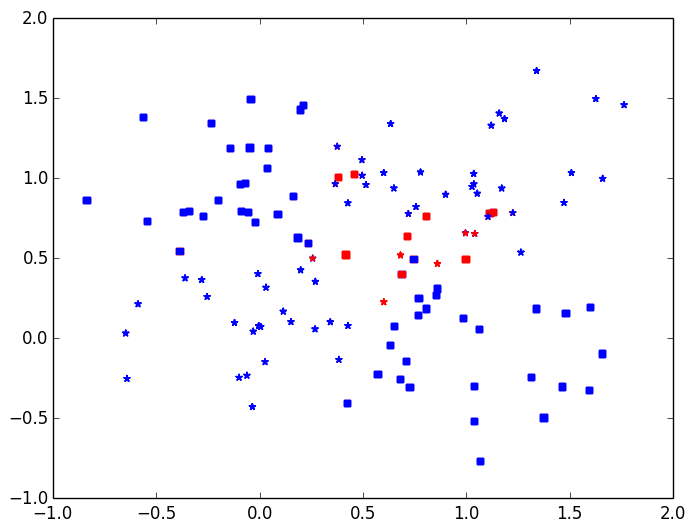
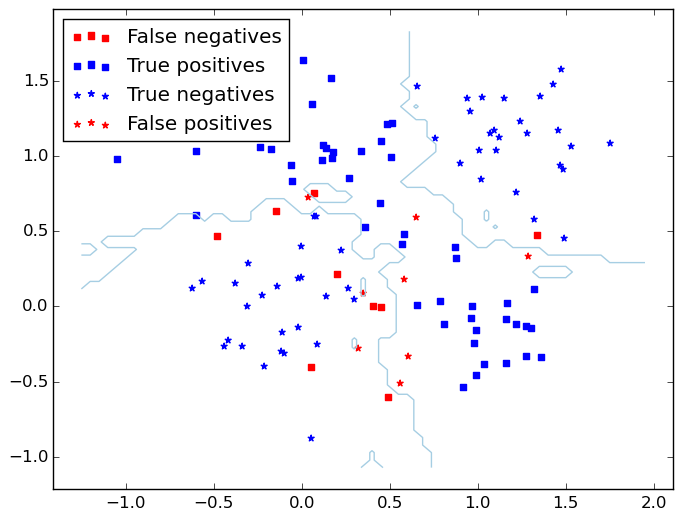
Contour plots and labels for 6.1!

diff --git a/E6/6.1-2.py b/E6/6.1-2.py
@@ -21,10 +21,21 @@ data = createDataAsXYL(60)
 #print data
 
 # ------- 6.1 -------
+def find_k_NearestNeighborsIndices(coordinates, k):
+   dist = np.linalg.norm(np.tile(coordinates, (data.shape[0], 1)) - data[:,:-1], axis=1)
+   return dist.argsort()[1:k+1]
+
 def findNearestNeighborIndiciesToScipy(data, pointindex, numberofneighbors):
    t = tree(data[:,:-1])
    return t.query(data[:,:-1][pointindex], numberofneighbors+1)[1][1:]
 
+h = .05  # step size in the mesh
+# create a mesh to plot in
+x_min, x_max = data[:, 0].min() - 0.2, data[:, 0].max() + 0.2
+y_min, y_max = data[:, 1].min() - 0.2, data[:, 1].max() + 0.2
+xx, yy = np.meshgrid(np.arange(x_min, x_max, h),
+                     np.arange(y_min, y_max, h))
+allpoints = np.c_[xx.ravel(), yy.ravel()]
 
 for k in [1, 3, 5]:
    classifiedasones = [None] * len(data)
@@ -42,13 +53,19 @@ for k in [1, 3, 5]:
    zeros = data[np.asarray(classifiedasones)==False]
    #print "ones:\n"+str(ones)
    #print "zeros:\n"+str(zeros)
+   #Show the contours of the classifications
+   contours = np.zeros(allpoints.shape[0])
+   for i in range(allpoints.shape[0]):
+      contours[i] = np.sign(np.mean(data[find_k_NearestNeighborsIndices(allpoints[i], k)][:,-1]))
 
-   mplt.scatter(getDataWithLabel(zeros,  1).T[0], getDataWithLabel(zeros,  1).T[1], color='red',  marker='s')        #generated as  1, marked as -1
-   mplt.scatter(getDataWithLabel(ones,   1).T[0], getDataWithLabel(ones,   1).T[1], color='blue', marker='s')        #generated as  1, marked as  1
-   mplt.scatter(getDataWithLabel(zeros, -1).T[0], getDataWithLabel(zeros, -1).T[1], color='blue', marker=r'$\star$') #generated as -1, marked as -1
-   mplt.scatter(getDataWithLabel(ones,  -1).T[0], getDataWithLabel(ones,  -1).T[1], color='red',  marker=r'$\star$') #generated as -1, marked as  1
+   mplt.figure()
+   mplt.scatter(getDataWithLabel(zeros,  1).T[0], getDataWithLabel(zeros,  1).T[1], color='red',  marker='s', label='False negatives')        #generated as  1, marked as -1
+   mplt.scatter(getDataWithLabel(ones,   1).T[0], getDataWithLabel(ones,   1).T[1], color='blue', marker='s', label='True positives')        #generated as  1, marked as  1
+   mplt.scatter(getDataWithLabel(zeros, -1).T[0], getDataWithLabel(zeros, -1).T[1], color='blue', marker=r'$\star$', label='True negatives') #generated as -1, marked as -1
+   mplt.scatter(getDataWithLabel(ones,  -1).T[0], getDataWithLabel(ones,  -1).T[1], color='red',  marker=r'$\star$', label='False positives') #generated as -1, marked as  1
+   mplt.contour(xx, yy, contours.reshape(xx.shape), cmap=mplt.cm.Paired, levels=[0.5]);
+   mplt.legend(loc=2)
    mplt.savefig('6.1b_k='+str(k)+'.png', bbox_inches='tight')
-
 
 
 # ------- 6.2 -------
